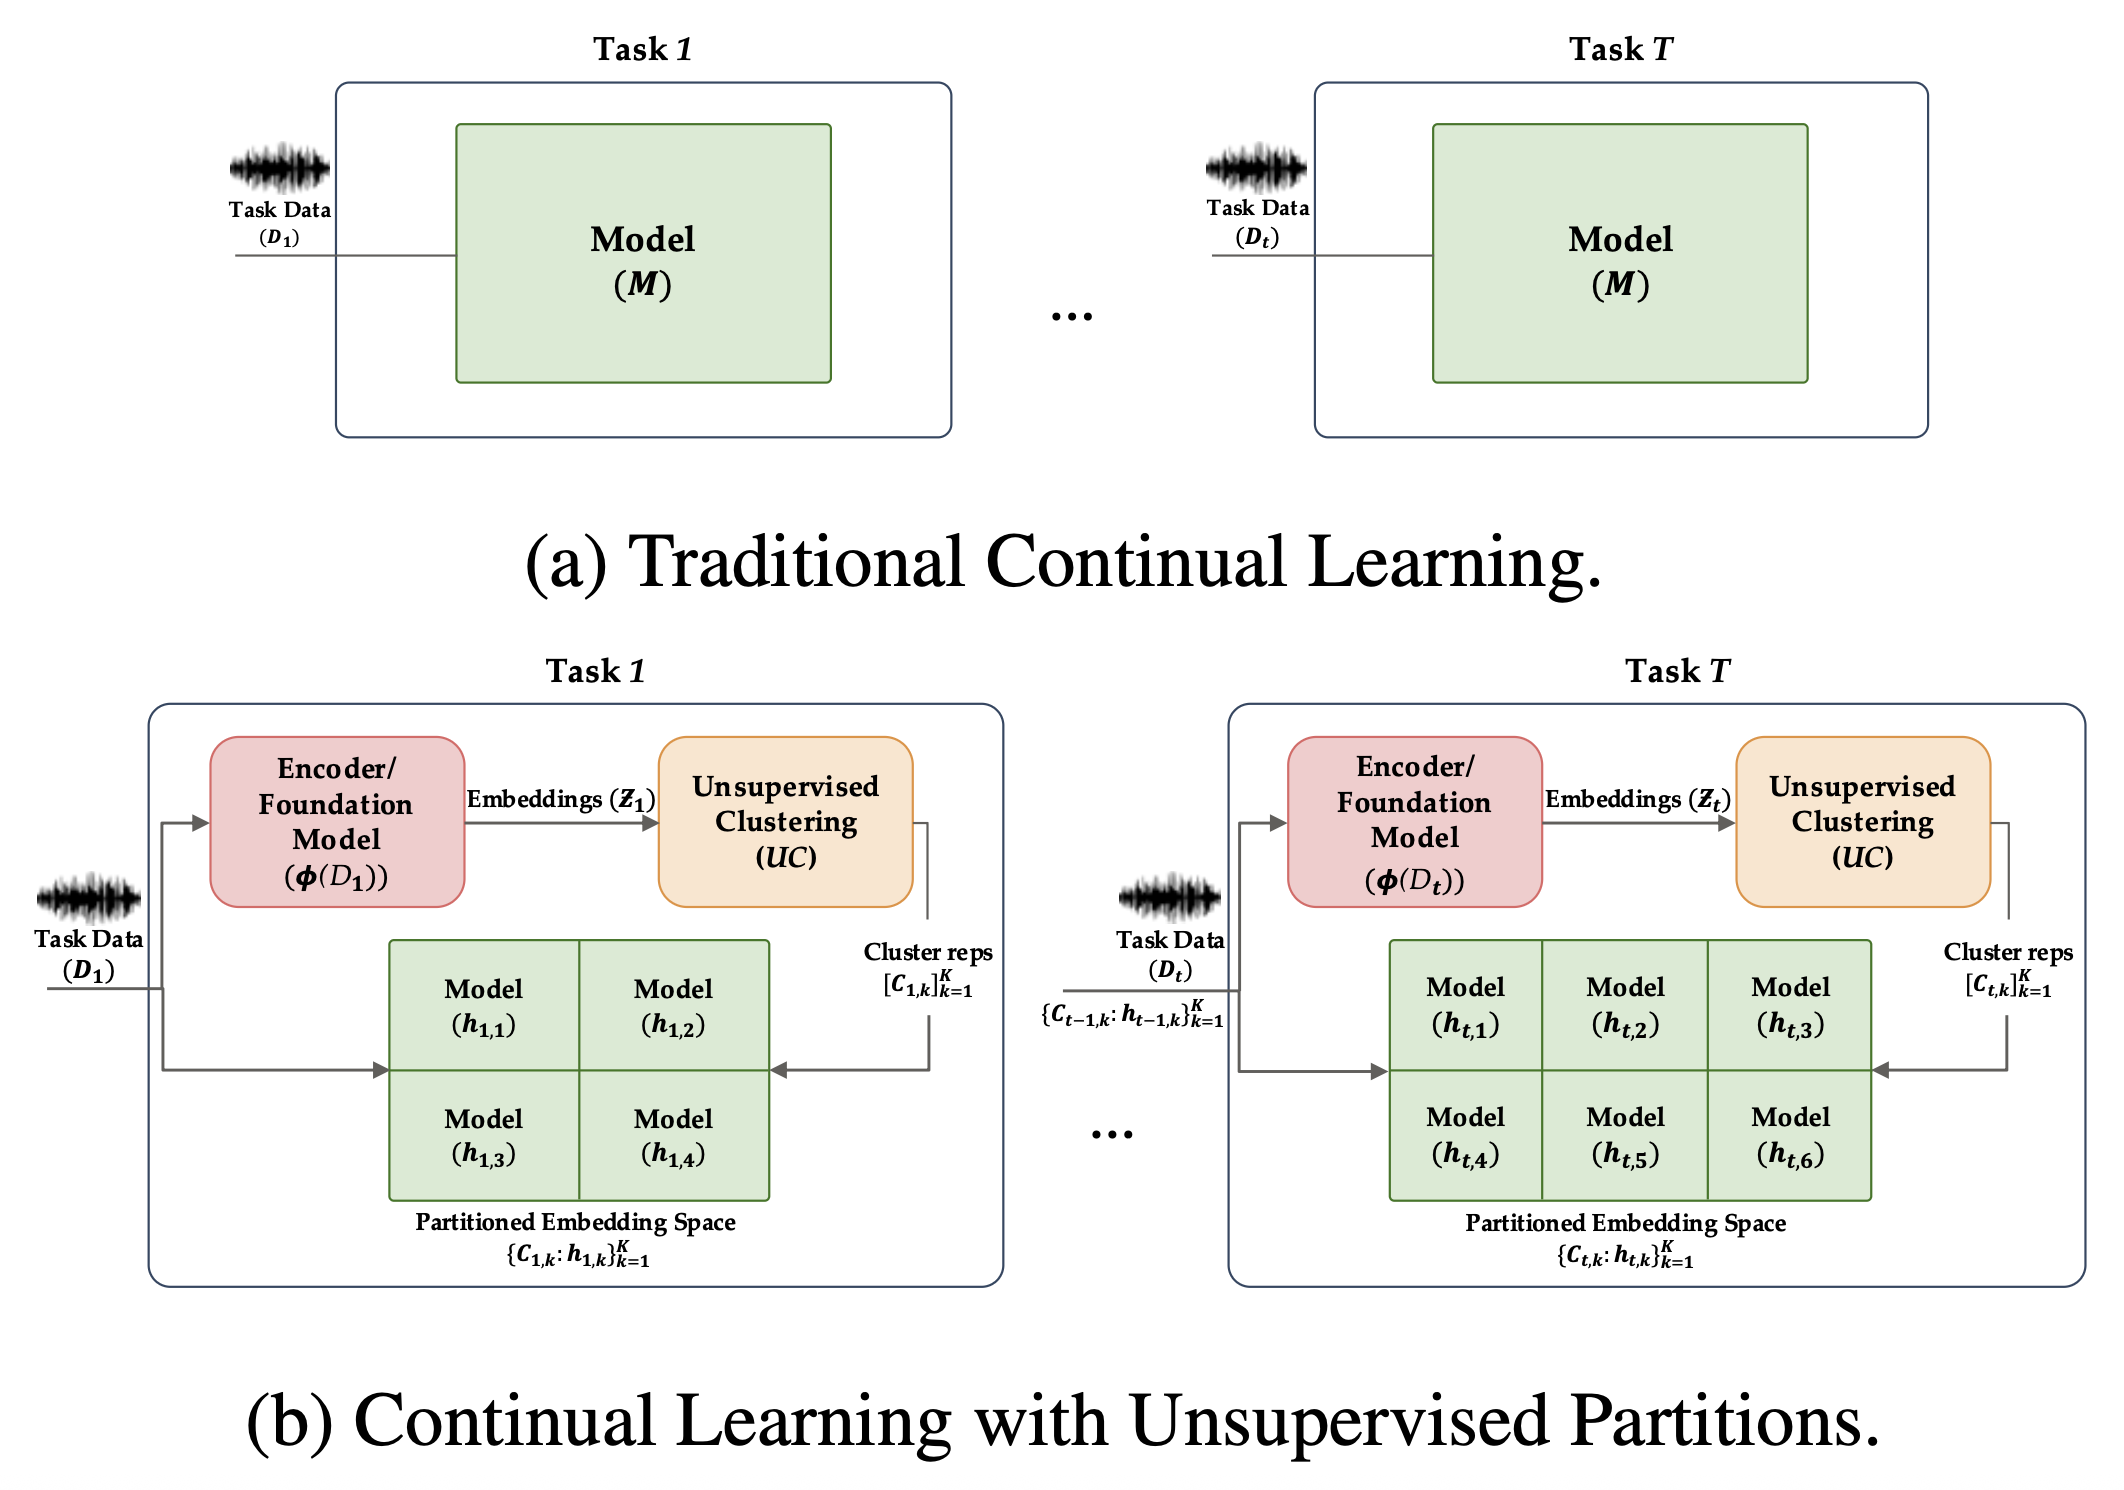
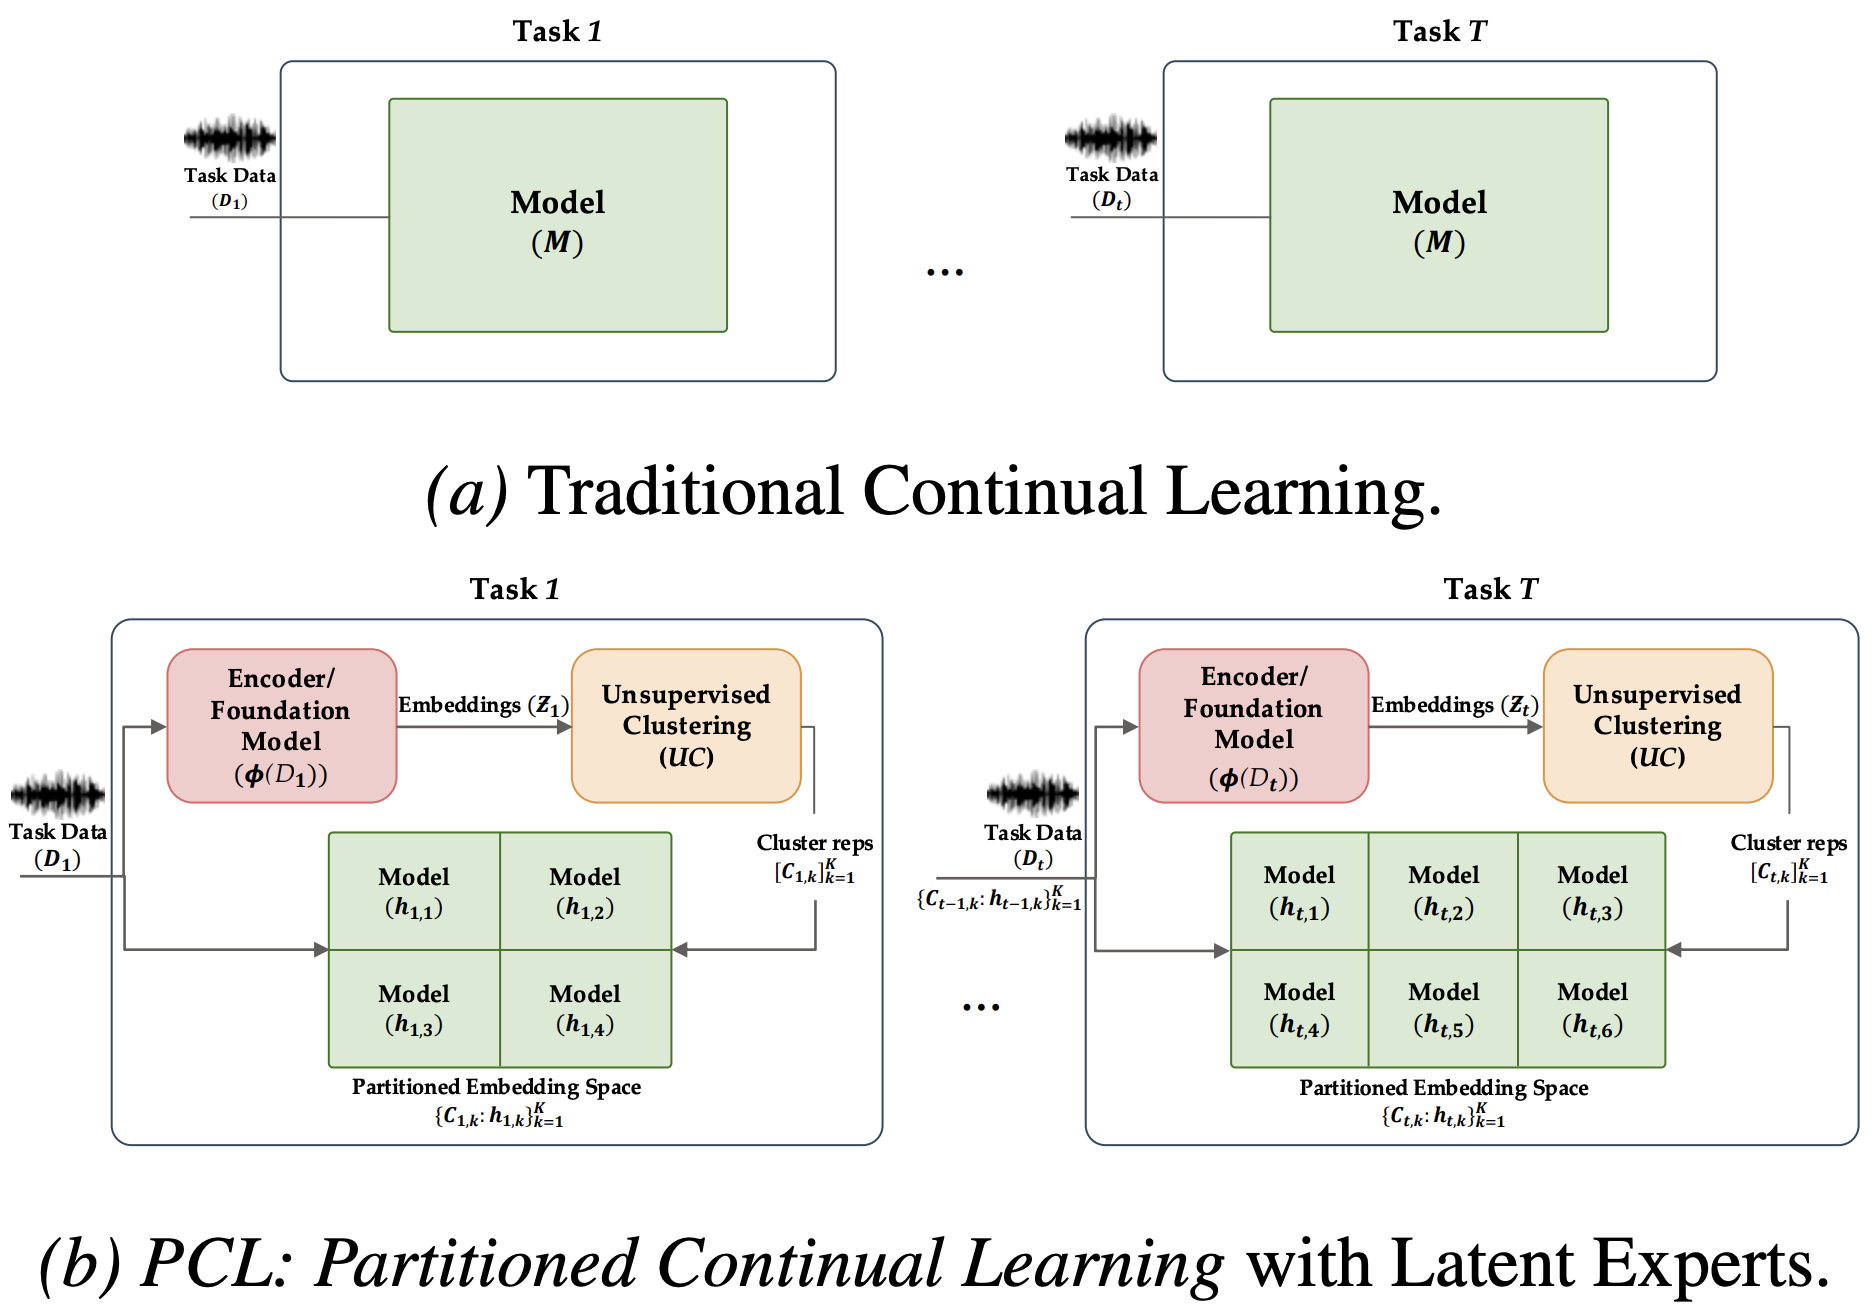
Website Changes

diff --git a/index.html b/index.html
@@ -193,7 +193,7 @@
   <tr><td>
     <sectionheading id='news'>&nbsp;&nbsp;What's New!</sectionheading>
     <ul>
-      <li> Partitioned Continual Learning (PCL) accepted at the Machine Learning for Audio workshop @ ICML 2026.</li>
+      <li> <a href="#PCL2026">Partitioned Continual Learning (PCL)</a> accepted at the Machine Learning for Audio workshop @ ICML 2026.</li>
       <li> Organizing the <a href="https://wellcomp2026.github.io/" target="_blank">WellComp 2026 workshop</a> at ACM UbiComp 2026. Please consider submitting your best work.</li>
       <li> Interning at <a href="https://www.bosch.com/research/" target="_blank">Bosch Research</a>, California in Summer 2026, working on foundation models/LLMs for time-series.</li>
       <li> Excited to be TA for <a href="https://docs.google.com/document/d/1Kc0SH6tx1Q9dAXh6zvMhxysTUT3OPDqHaJYdDRW2o80/edit?usp=drive_link" target="_blank">ECE 381V Deep Learning</a> (graduate course) in Fall 2025.</li>
@@ -431,19 +431,20 @@
 <table width="100%" align="center" border="0" cellspacing="0" cellpadding="15">
 
   <tr>
-    <td width="33%" valign="top" align="center"><img src="images/PCL26.png" alt="sym" width="100%" style="border-radius:15px;"></a></td>
+    <td width="33%" valign="top" align="center"><a href="https://mlforaudioworkshop.github.io/accepted_submissions_2026/CameraReadys%204-83/83/CameraReady/PCL_ML4Audio_Camera.pdf" target="_blank"><img src="images/PCL26.png" alt="sym" width="100%" style="border-radius:15px;"></a></td>
     <td width="67%" valign="top" style="padding-top:15px">
       <p>
       <img src="images/new.png" alt="[NEW]" width="6%" style="border-style: none">
+      <a href="https://mlforaudioworkshop.github.io/accepted_submissions_2026/CameraReadys%204-83/83/CameraReady/PCL_ML4Audio_Camera.pdf" id="PCL2026" target="_blank">
       <heading>PCL: Partitioned Continual Learning via Unsupervised Latent Experts for Audio Classification</heading>
-      <br>
+      </a><br>
       <b><u>Gautham Krishna Gudur</u></b>*, Mohit Malu*, Tanmay Khandait, Reza Rahimi Azghan, Anirudh Rayas, Pavan Turaga, Joydeep Ghosh, Hassan Ghasemzadeh, Edison Thomaz, Giulia Pedrielli<br>
       Learning to Listen: Workshop on Machine Learning for Audio<br>
       <b>ICML 2026</b>
       </p>
 
       <div class="paper" id="pcl2026">
-      <a href="publications/PCL_ML4Audio_ICML26.pdf" target="_blank">pdf</a> /
+      <a href="https://mlforaudioworkshop.github.io/accepted_submissions_2026/CameraReadys%204-83/83/CameraReady/PCL_ML4Audio_Camera.pdf" target="_blank">pdf</a> /
       <a href="javascript:toggleblock('pcl26_abs')">abstract</a> /
       <a href="publications/PCL_ML4Audio_ICML26_Poster.pdf" target="_blank">poster</a> /
       <a shape="rect" href="javascript:togglebib('pcl2026')" class="togglebib">bibtex</a>